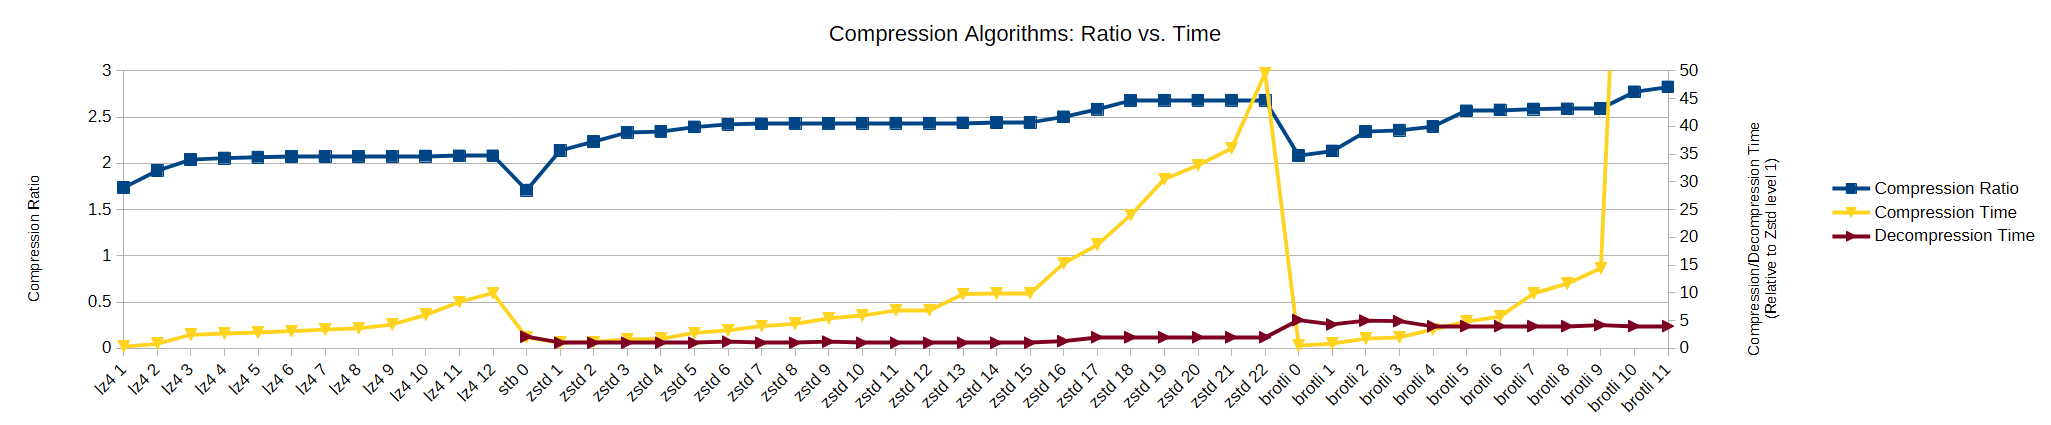
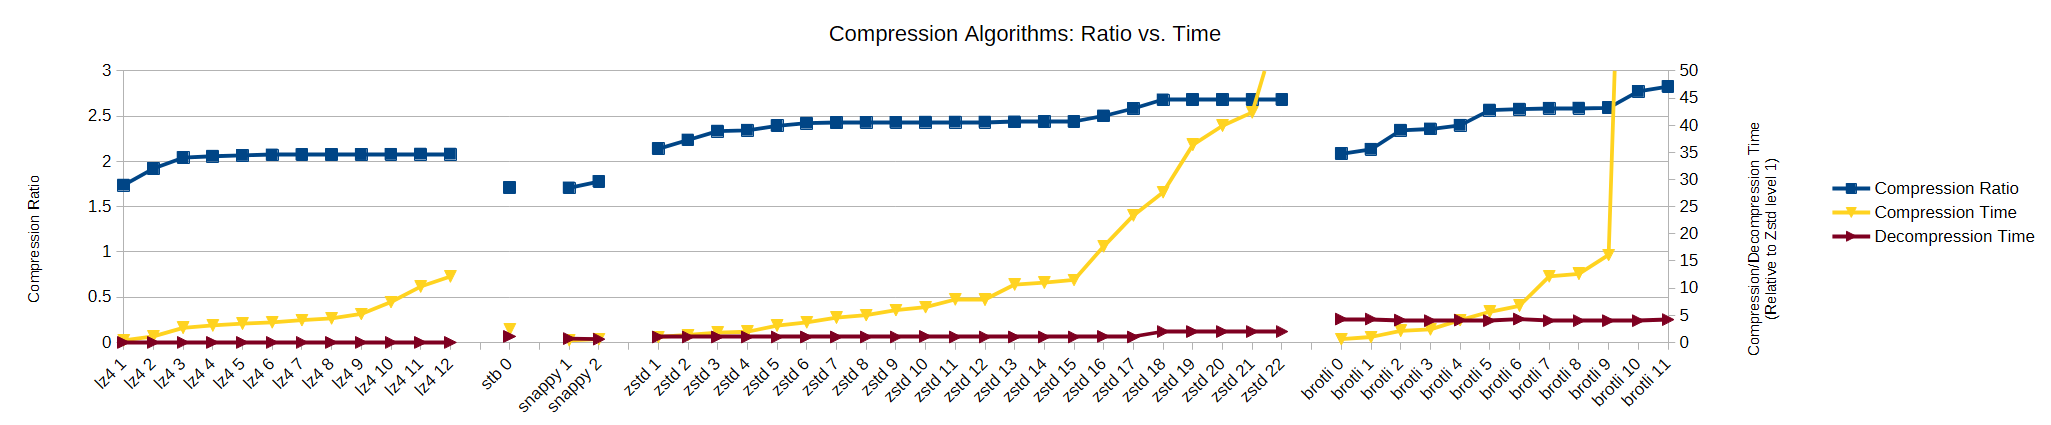
Fix LZ4 decompression

diff --git a/_source/lib/compression_data.cpp b/_source/lib/compression_data.cpp
@@ -65,8 +65,8 @@ uint64_t CompressionSchemeFunctions_Lz4::Decompress_UnknownSize(const void* inpu
 	const LZ4F_decompressOptions_t dOpt = { 0, 1, 0, 0 };
 
 	LZ4F_frameInfo_t frameInfo;
-	size_t unused;
-	LZ4F_getFrameInfo(dctx, &frameInfo, inputData, &unused);
+	size_t frameInfoSize = compressedSize;
+	size_t ret = LZ4F_getFrameInfo(dctx, &frameInfo, inputData, &frameInfoSize);
 	uint64_t decompressedBufSize = frameInfo.contentSize;
 	if (frameInfo.contentSize == 0) {
 		//https://stackoverflow.com/questions/25740471/lz4-library-decompressed-data-upper-bound-size-estimation#25755758
@@ -74,17 +74,18 @@ uint64_t CompressionSchemeFunctions_Lz4::Decompress_UnknownSize(const void* inpu
 	}
 	*outputData = new char[decompressedBufSize];
 
-	size_t srcPos = 0;
-	size_t ret;
+	size_t srcPos = frameInfoSize;
+	size_t dstPos = 0;
 	do {
-		size_t dstSize = decompressedBufSize;
 		size_t srcSize = compressedSize - srcPos;
-		ret = LZ4F_decompress(dctx, *outputData, &dstSize, (char*)inputData + srcPos, &srcSize, &dOpt);
+		size_t dstSize = decompressedBufSize - dstPos;
+		ret = LZ4F_decompress(dctx, (char*)(*outputData) + dstPos, &dstSize, (const char*)inputData + srcPos, &srcSize, &dOpt);
 		srcPos += srcSize;
+		dstPos += dstSize;
 	} while (srcPos < compressedSize && ret != 0);
 
 	LZ4F_freeDecompressionContext(dctx);
-	return srcPos;
+	return dstPos;
 }
 
 CompressionSchemeFunctions_Lz4::~CompressionSchemeFunctions_Lz4() {
